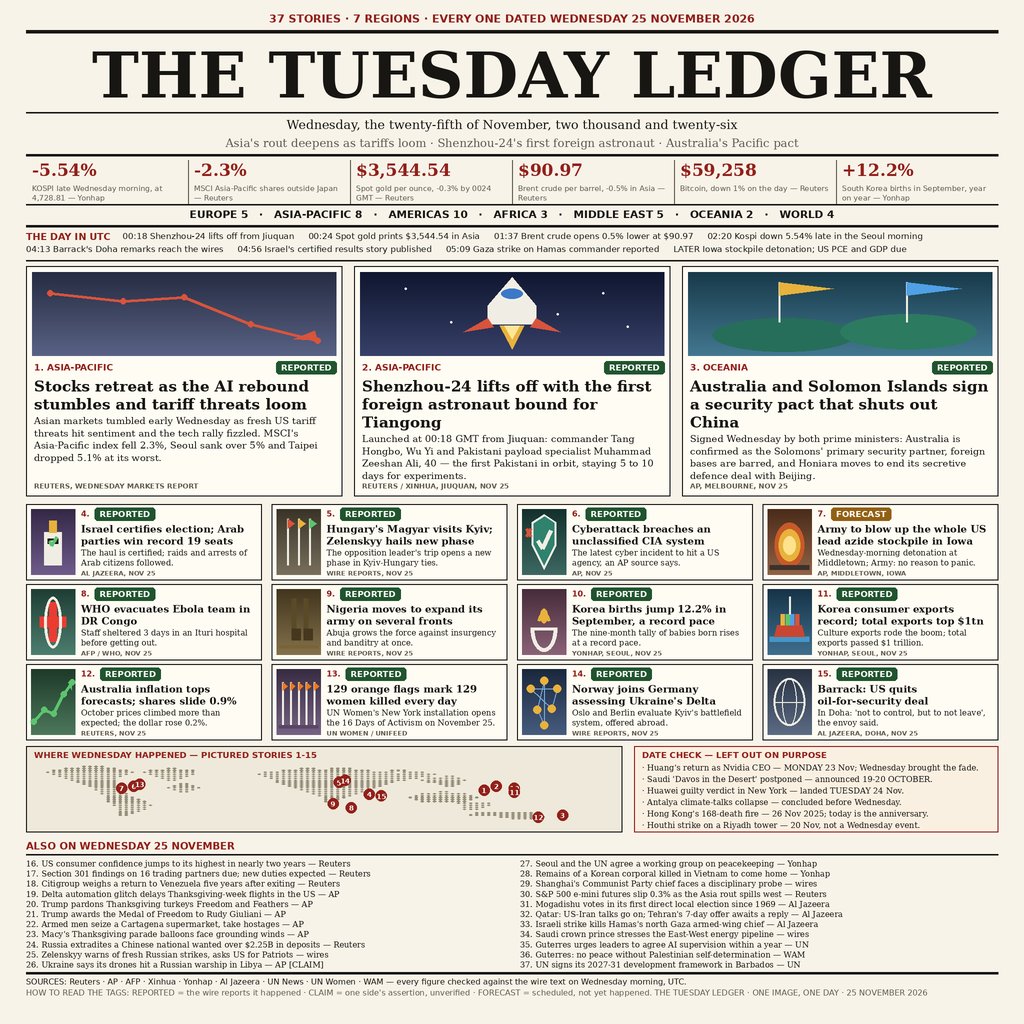
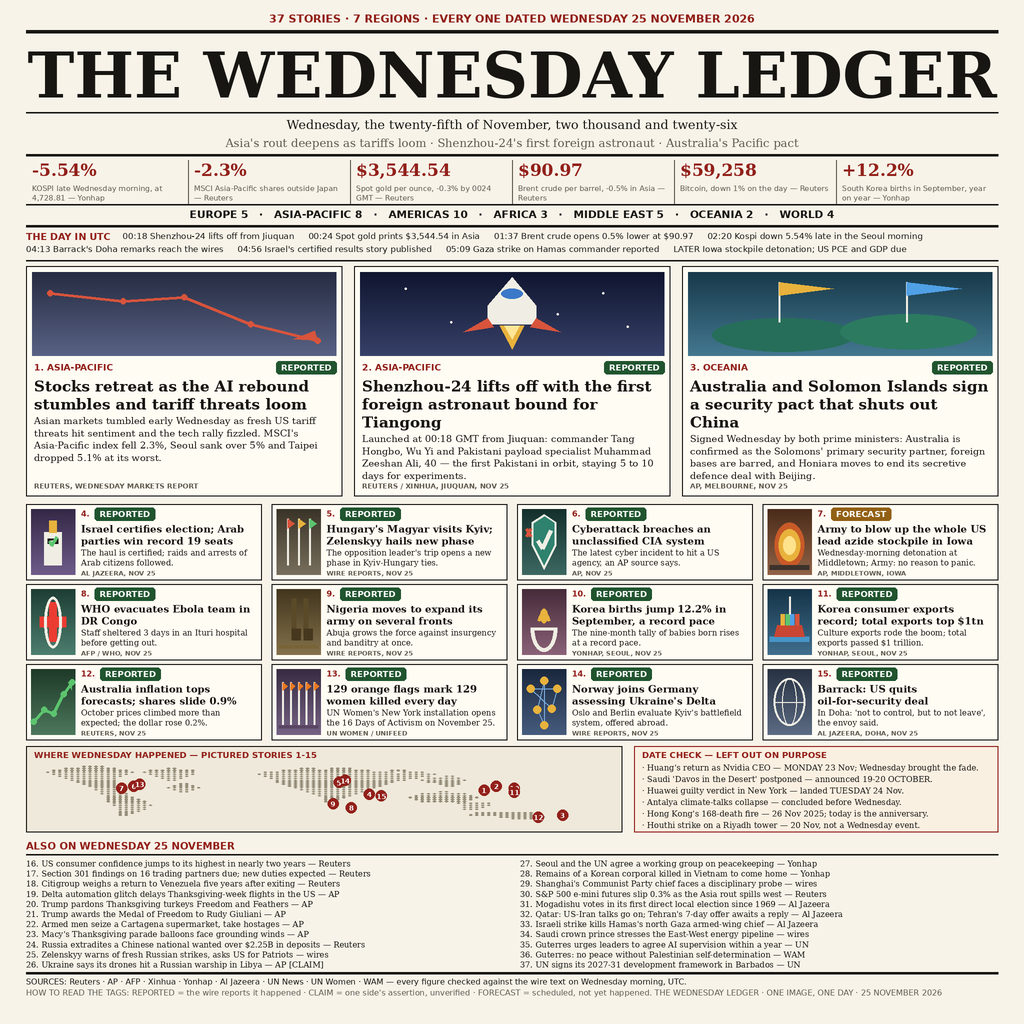
Fix masthead: THE WEDNESDAY LEDGER (news day is Wednesday 25 Nov 2026)

Changed region(s): [[0.0312, 0.0312, 0.9688, 0.0938]]

diff --git a/draw.py b/draw.py
@@ -1,5 +1,5 @@
 #!/usr/bin/env python3
-"""THE TUESDAY LEDGER - renderer for make.fun news-image-20261125.
+"""THE WEDNESDAY LEDGER - renderer for make.fun news-image-20261125.
 
 Draws the one-image broadsheet of Wednesday 25 November 2026 at 2x
 supersampling (2048x2048) and downscales to the committed 1024x1024
@@ -207,7 +207,7 @@ def main():
 
     # ---- masthead
     f = F(SERIF_B, 63)
-    title = "THE TUESDAY LEDGER"
+    title = "THE WEDNESDAY LEDGER"
     while d.textlength(title, font=f) > CW * S:
         f = ImageFont.truetype(SERIF_B, f.size - 2)
     d.text(((1024 - d.textlength(title, font=f) / S) / 2 * S, 38 * S), title, font=f, fill=INK)
@@ -348,7 +348,7 @@ def main():
             "against the wire text on Wednesday morning, UTC.")
     d.text((M * S, (y0 + 5) * S), foot, font=f, fill=INK)
     foot2 = ("HOW TO READ THE TAGS: REPORTED = the wire reports it happened · CLAIM = one side's assertion, unverified · "
-             "FORECAST = scheduled, not yet happened. THE TUESDAY LEDGER · ONE IMAGE, ONE DAY · 25 NOVEMBER 2026")
+             "FORECAST = scheduled, not yet happened. THE WEDNESDAY LEDGER · ONE IMAGE, ONE DAY · 25 NOVEMBER 2026")
     for ln in wrap(d, foot2, f, CW * S):
         y0 += 11
         d.text((M * S, (y0 + 5) * S), ln, font=f, fill=MUTED)

diff --git a/main.py b/main.py
@@ -1,5 +1,5 @@
 #!/usr/bin/env python3
-"""THE TUESDAY LEDGER - entry program for make.fun news-image-20261125.
+"""THE WEDNESDAY LEDGER - entry program for make.fun news-image-20261125.
 
 The artwork (one broadsheet image summing up Wednesday 25 November 2026)
 is rendered locally by draw.py and committed to this repository as

diff --git a/stories.py b/stories.py
@@ -1,4 +1,4 @@
-# Story data for THE TUESDAY LEDGER, Wednesday 25 November 2026.
+# Story data for THE WEDNESDAY LEDGER, Wednesday 25 November 2026.
 # Every item was swept from the wires on the morning of 25 Nov 2026 (UTC)
 # and verified against wire text at render time. See news-notes.md.
 

diff --git a/news-notes.md b/news-notes.md
@@ -1,4 +1,4 @@
-# News notes — THE TUESDAY LEDGER, Wednesday 25 November 2026
+# News notes — THE WEDNESDAY LEDGER, Wednesday 25 November 2026
 
 Swept from the wires on Wednesday morning, 25 Nov 2026 (from ~05:28 UTC),
 and verified against wire text at render time. This v1 is a probe build

diff --git a/README.md b/README.md
@@ -1,4 +1,4 @@
-# THE TUESDAY LEDGER — one image, one day
+# THE WEDNESDAY LEDGER — one image, one day
 
 A single broadsheet image that sums up **Wednesday 25 November 2026**:
 37 stories from 7 regions, every one of them dated that Wednesday —
